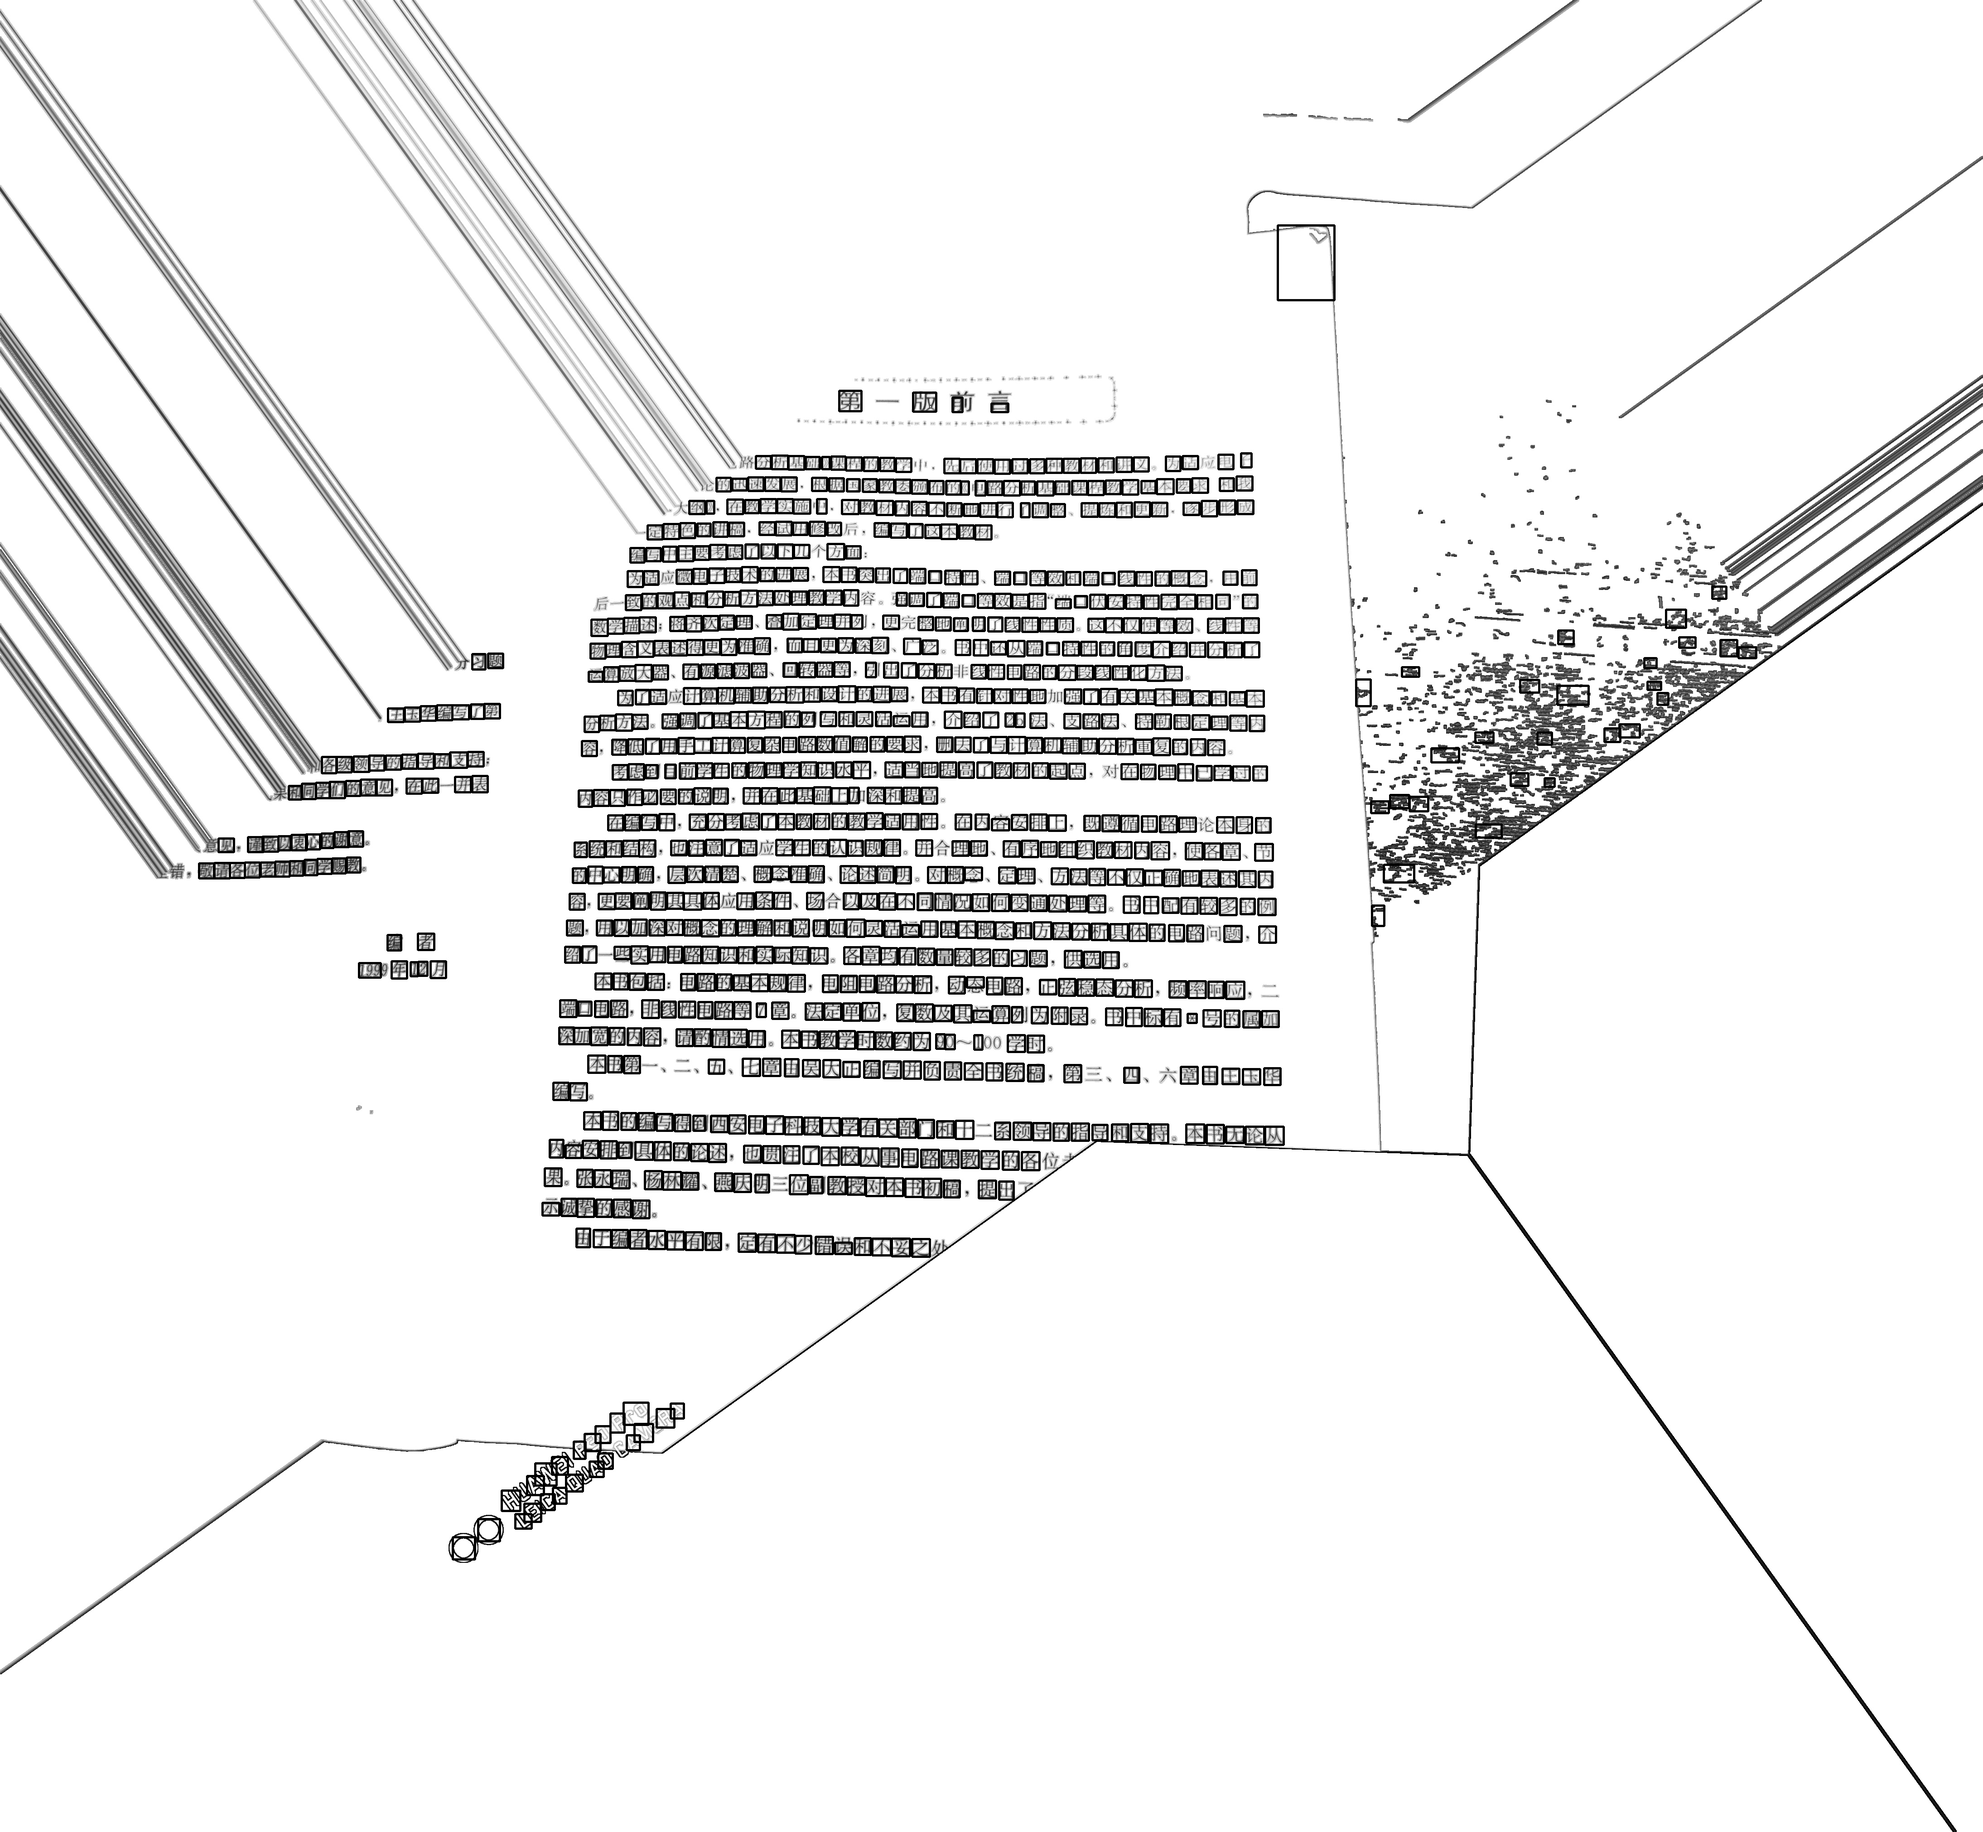
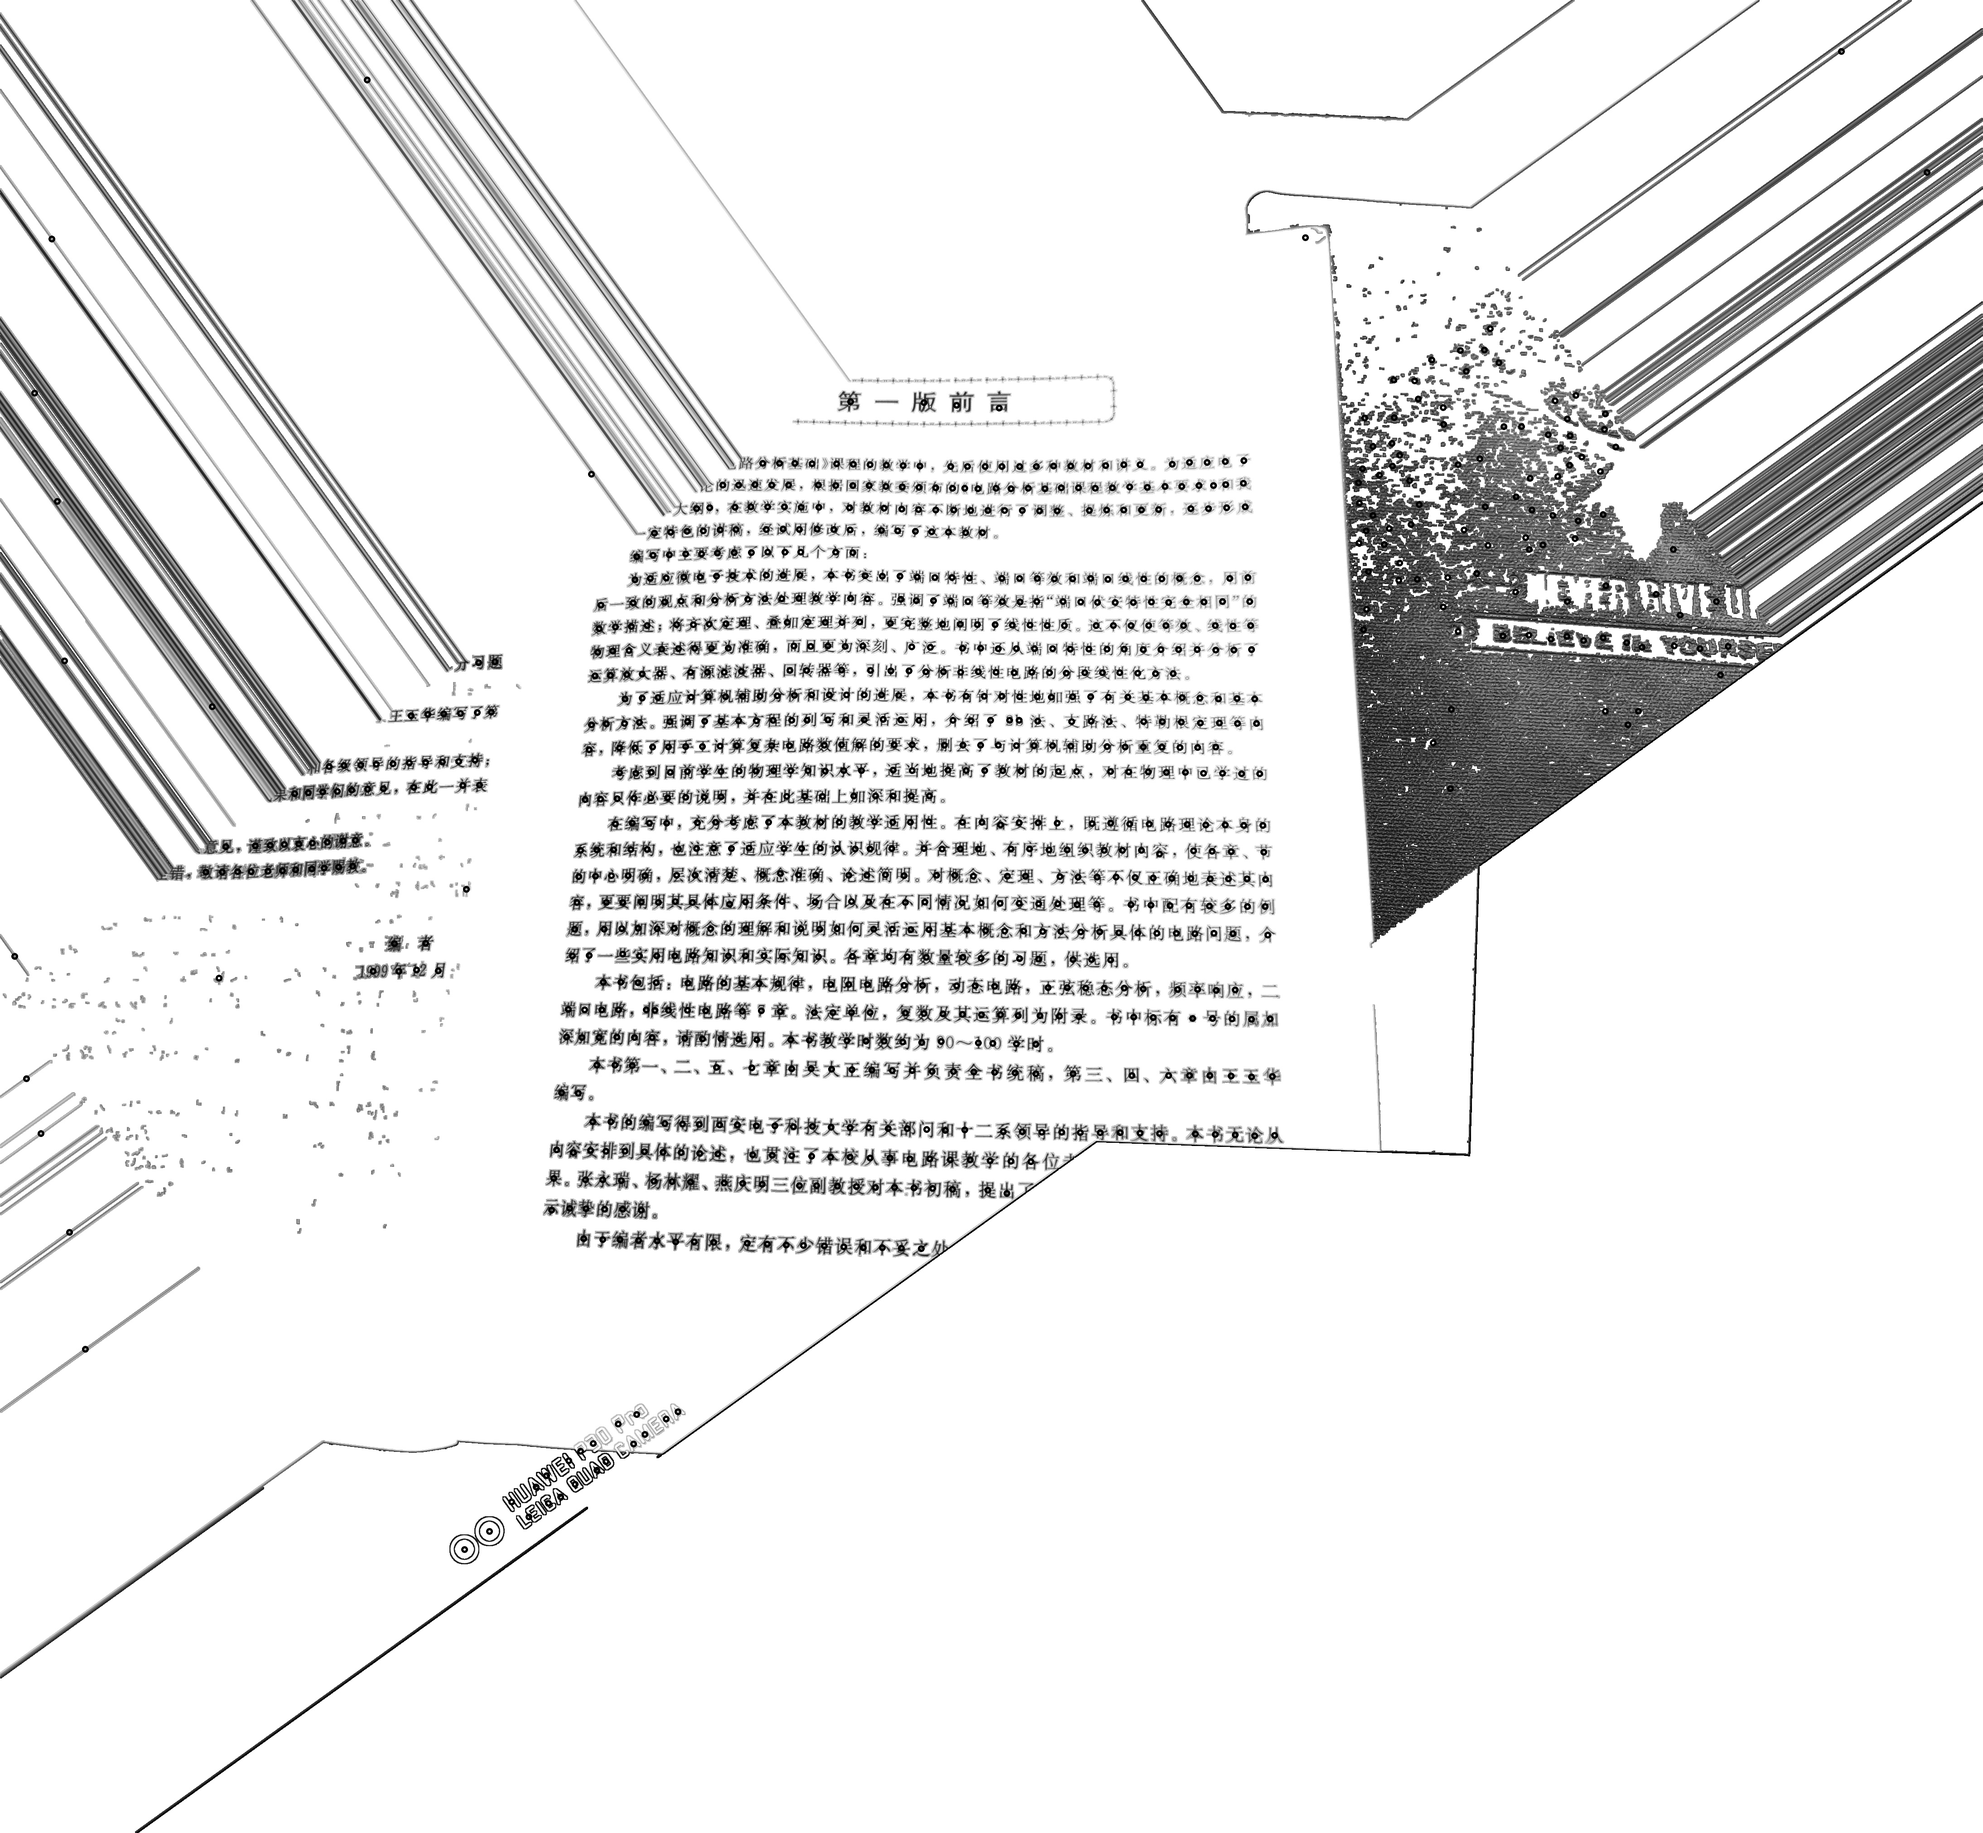
update find_the_text.py

diff --git a/main.py b/main.py
@@ -1,13 +1,14 @@
 # ——*——coding:utf-8——*——
 # author: hhhfccz(胡珈魁) time:2020/8/29
 import cv2
-from rotation_according_to_word_direction import rotated_img_with_fft
+from rotation_according_to_word_direction import rotate_img
 from image_matching import get_match_img
 from find_the_text import detect
-from remove_the_background import remove_the_bg
 from ocr_pytesseract import ocr
+from used_time import decorator_used_time
 
 
+@decorator_used_time
 def main():
     print("please make sure there is a repeat between the two images.")
     # 输入接口（有点小问题，有空再改吧）
@@ -15,26 +16,27 @@ def main():
     img_right = cv2.imread("./pic_left/" + str(number) + ".jpg")
     img_left = cv2.imread("./pic_right/" + str(number) + ".jpg")
 
-    print("----start the image processing----\n")
+    print("----start the image processing----")
 
     # 将两个图片拼接在一起
     print("----matching----")
     img_match = get_match_img(img_left, img_right, number)
+    cv2.imwrite("./match_result/" + str(number) + ".jpg", img_match)
 
     # 利用直线检测进行文字方向矫正，使得文字正向
-    print("----rotating----\n")
-    img_rotated = rotated_img_with_fft(img_match)
+    print("----rotating----")
+    img_rotated = rotate_img(img_match)
     cv2.imwrite("./rotated_result/" + str(number) + ".jpg", img_rotated)
 
     # 利用MSER检测找到文字大致范围并框选出来
-    print("----finding the text----\n")
-    text_area = detect(remove_the_bg(img_rotated), norm=2)
+    print("----finding the text----")
+    text_area = detect(img_rotated)
     cv2.imwrite("./find_text_result/" + str(number) + ".jpg", text_area)
 
-    # # 开始进行OCR
+    # 开始进行OCR
     # print("----ocr---")
     # ocr(number)
-    # print("----Done----")
+    print("----Done----")
 
 
 if __name__ == "__main__":

diff --git a/find_the_text.py b/find_the_text.py
@@ -2,6 +2,7 @@
 # author: hhhfccz(胡珈魁) time:2020/11/14
 import cv2
 import numpy as np
+from remove_the_background import remove_the_bg
 
 
 def non_max_suppress(boxes, threshold=0.2):
@@ -32,11 +33,16 @@ def non_max_suppress(boxes, threshold=0.2):
             overlap = (w * h) / boxes_area[idxs[:last]]
 
             # 剔除
-            idxs = np.delete(idxs, np.concatenate(([last], np.where(overlap > threshold)[0])))
+            idxs = np.delete(idxs, np.concatenate(([last], np.where(threshold < overlap)[0])))
         return boxes[pick].astype("int")
 
 
 def detect(img_gray, norm=1.2):
+    # 自适应直方图均衡
+    clahe = cv2.createCLAHE(clipLimit=2.0, tileGridSize=(5, 5))
+    img_gray = clahe.apply(img_gray)
+    img_gray = remove_the_bg(img_gray)
+
     # 创建mser实例
     mser = cv2.MSER_create(_delta=2, _min_area=300, _max_area=800, _max_variation=0.7)
 
@@ -53,11 +59,18 @@ def detect(img_gray, norm=1.2):
         if w < norm * h and h < norm * w:
             boxes.append([x, y, x + w, y + h])
     # print(len(boxes))
+
+    # 使用NMS算法抑制MSER检测效果
     boxes = non_max_suppress(np.array(boxes))
 
-    # print(np.max(boxes[:, 2:3]))
-    for (x1, y1, x2, y2) in boxes:
-        cv2.rectangle(img_gray, (x1, y1), (x2, y2), (0, 255, 0), 3)
+    # 找到boxes的中心点并连线
+    pts = np.zeros((len(boxes), 2))
+    pts[:, 0] = (boxes[:, 0] + boxes[:, 2]) / 2
+    pts[:, 1] = (boxes[:, 1] + boxes[:, 3]) / 2
+    pts = pts.astype(np.int)
+    for i in range(len(pts)):
+        cv2.circle(img_gray, (pts[i, 0], pts[i, 1]), 5, (0, 255, 0), 3)
+
     return img_gray
 
 

diff --git a/image_matching.py b/image_matching.py
@@ -3,16 +3,13 @@
 import numpy as np
 import cv2
 from remove_the_background import remove_the_bg
-from used_time import decorator_used_time
 
 
-@decorator_used_time
 def get_match_img(img_left, img_right, number, MIN_MATCH_COUNT=10, norm=0.75):
     # 获取图片大小，调整图像大小，使得两张图像大小相同
-    global match_result
     h, w = img_left.shape[:2]
 
-    # 取出底色，避免干扰（可选）
+    # 取出底色，避免干扰
     img_left_g = remove_the_bg(cv2.cvtColor(img_left, cv2.COLOR_BGR2GRAY))
     img_right_g = remove_the_bg(cv2.cvtColor(img_right, cv2.COLOR_BGR2GRAY))
 
@@ -60,7 +57,6 @@ def get_match_img(img_left, img_right, number, MIN_MATCH_COUNT=10, norm=0.75):
         min_col, max_col = min(cols), max(cols) + 1
 
         match_result = wrap[min_row:max_row, min_col:max_col, :]
-        cv2.imwrite("./match_result/" + str(number) + ".jpg", match_result)
         return match_result
 
 

diff --git a/rotation_according_to_word_direction.py b/rotation_according_to_word_direction.py
@@ -50,7 +50,7 @@ def get_angle(lines):
         return 0
 
 
-def rotated_img_with_fft(img):
+def rotate_img(img):
     img_gray = cv2.cvtColor(img, cv2.COLOR_BGR2GRAY)
     # 对图像进行边界扩充
     top_size, bottom_size, left_size, right_size = 50, 50, 50, 50

diff --git a/k_means.py b/k_means.py
@@ -4,7 +4,7 @@ import cv2
 import numpy as np
 
 
-def k_means_of_opencv(X_data, k=3):
+def k_means(X_data, k=3):
     X_data = np.array(X_data)
     criteria = (cv2.TERM_CRITERIA_EPS + cv2.TERM_CRITERIA_MAX_ITER, 10, 1.0)
     flags = cv2.KMEANS_RANDOM_CENTERS

diff --git a/README.md b/README.md
@@ -24,7 +24,9 @@ The purpose of the hardware part of this project:
 4. more
 
 > Completed functions are marked in bold.
+> 
 > Features that are already available but need refinement are marked in italics.
+> 
 > Others need to be pushed around by DDL / hhhfccz.
 
 # How to do
@@ -49,7 +51,7 @@ you can see test samples in ['rotated_result'](https://github.com/hhhfccz/Docume
 
 my idea is to use **MSER and NMS**, but you can see the result like:
 
-![find_text_result2.jpg](https://raw.githubusercontent.com/hhhfccz/Document-reconstruction/main/find_text_result/2.jpg)
+![find_text_result2.jpg](https://raw.sevencdn.com/hhhfccz/Document-reconstruction/main/find_text_result/2.jpg)
 
 It does not perform as well as expected.
 
@@ -60,6 +62,7 @@ So, i think Deep learning methods are the only ones that are truly appropriate f
 make sure:
 
 > opencv-python >= 4.4.0
+> 
 > opencv-python-contrib >= 4.4.0
 
 OK! just do it!
